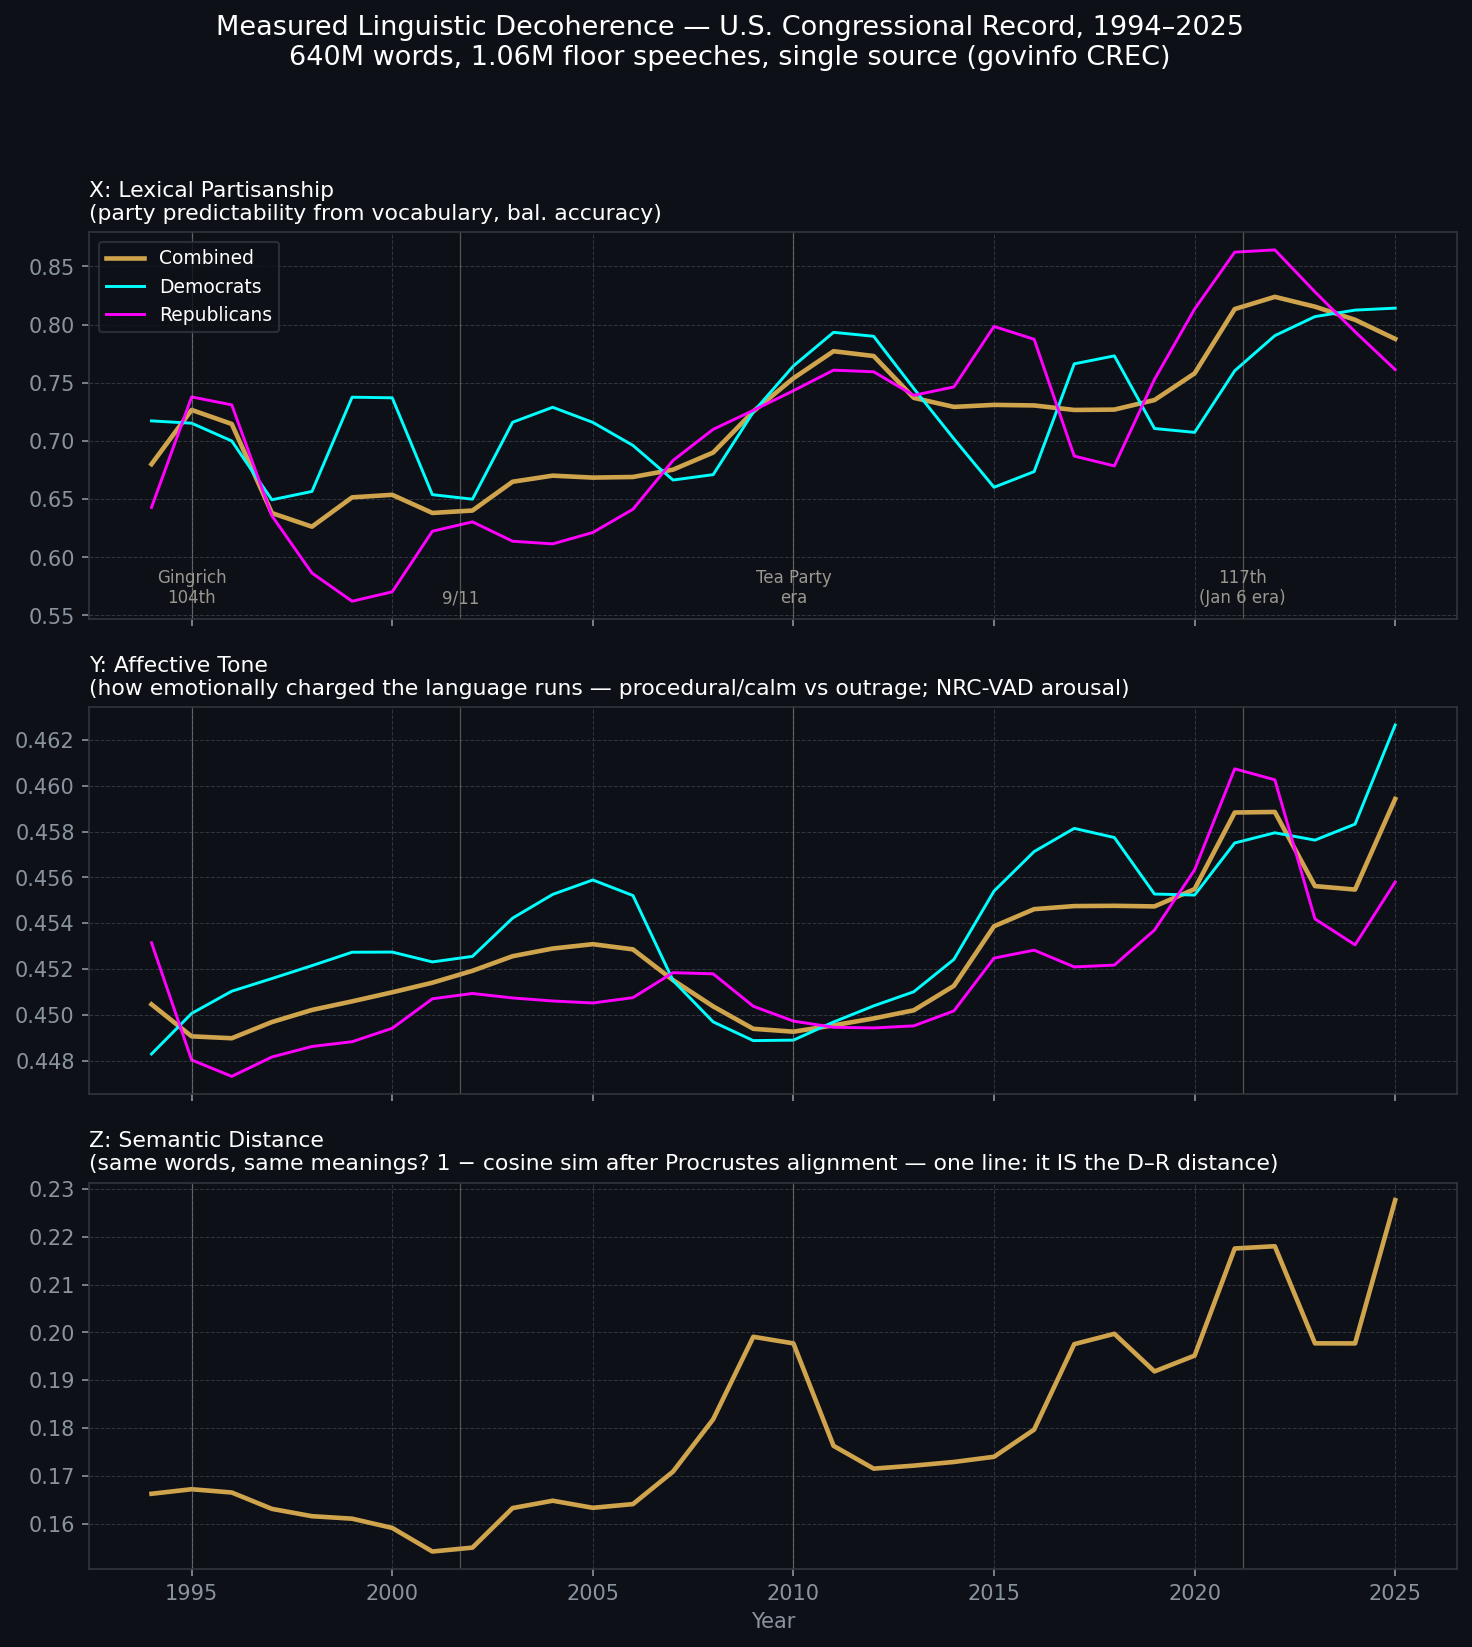
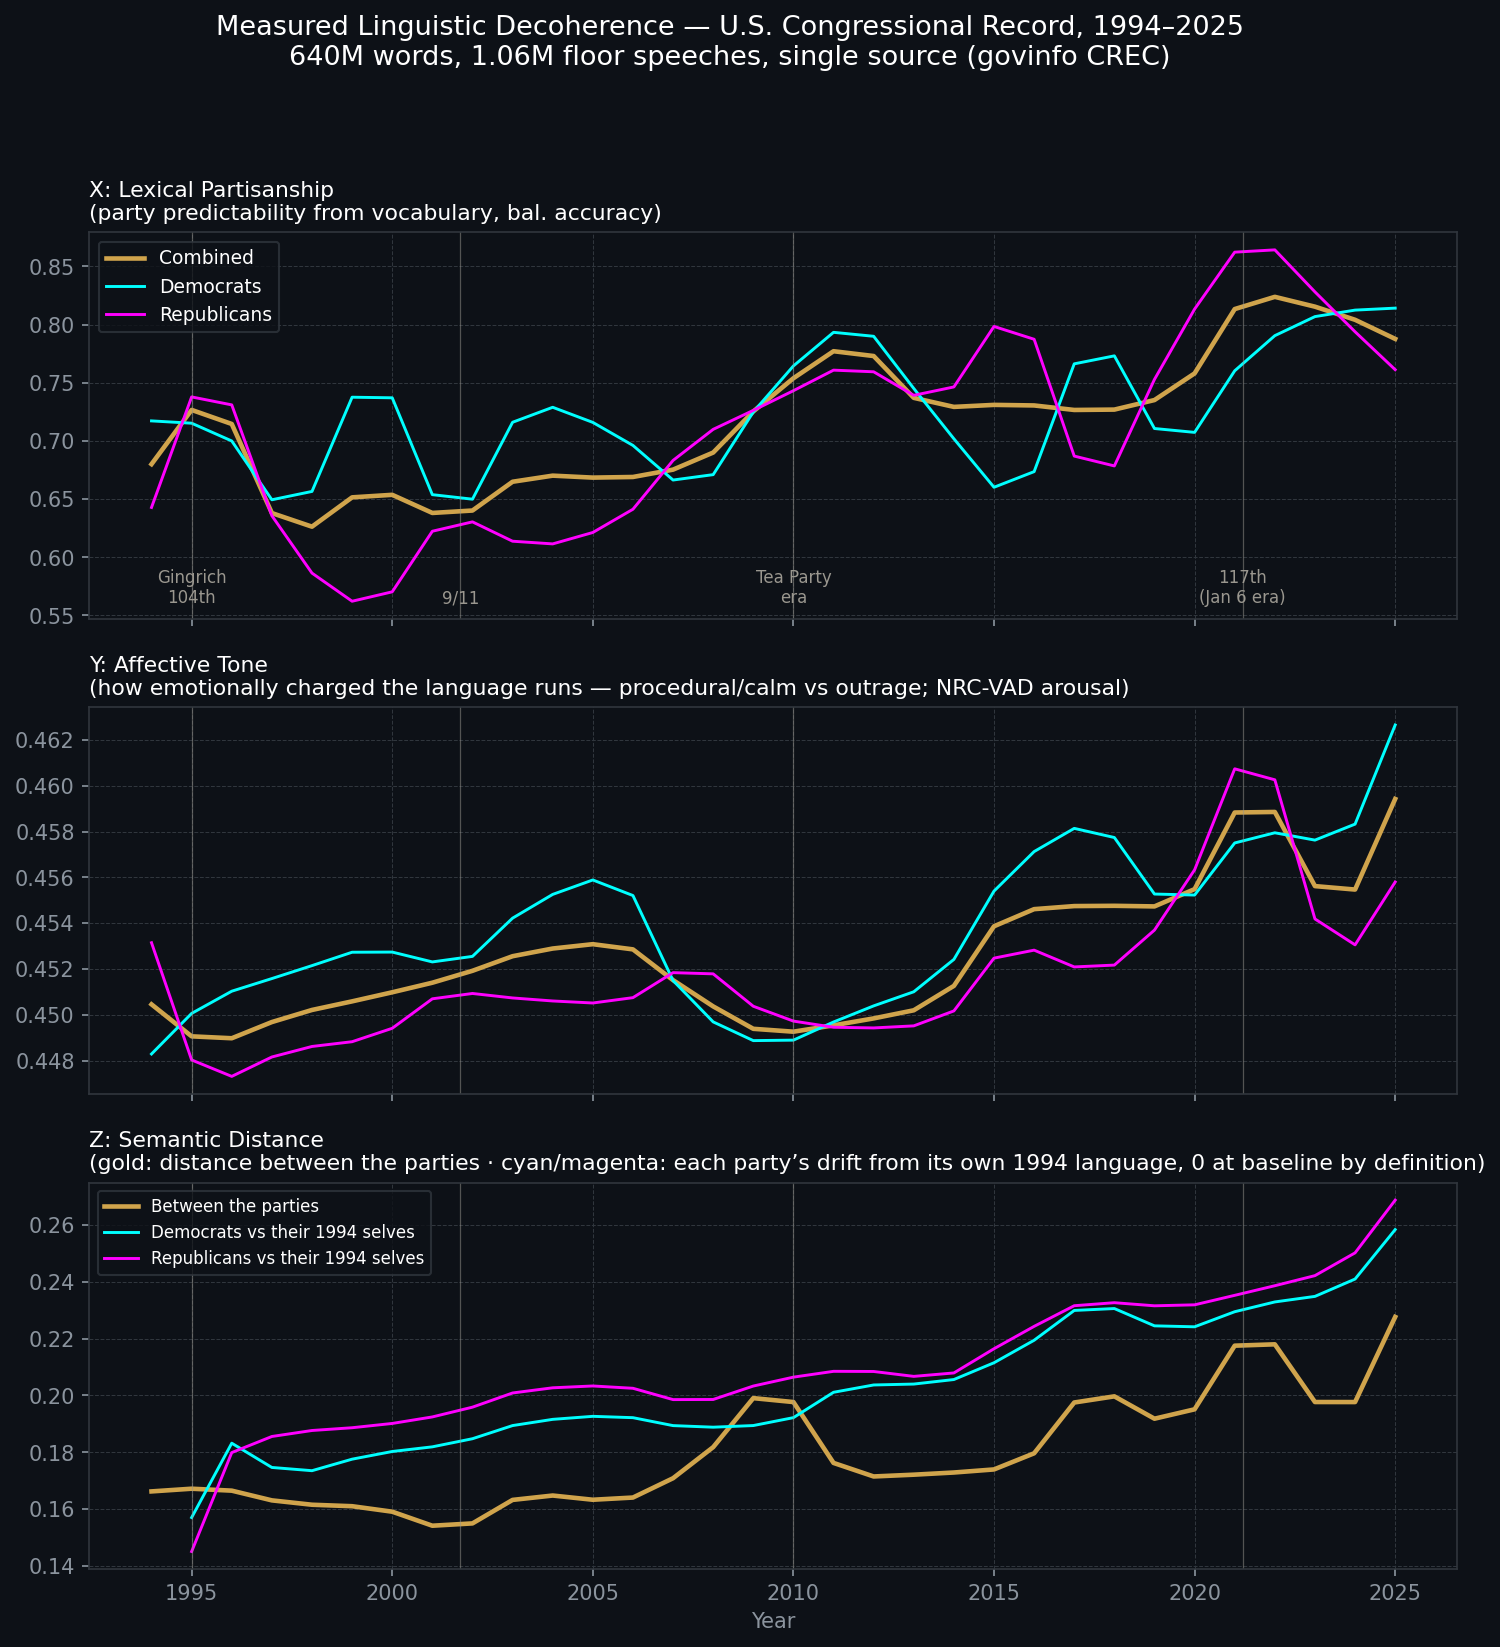
Z panel: per-party drift-from-1994 lines; bump chart to v3

diff --git a/decoherence-z-axis.html b/decoherence-z-axis.html
@@ -1,9 +1,9 @@
-<!DOCTYPE html>
+<!DOCTYPE html>
 <html lang="en">
 <head>
 <meta charset="UTF-8">
 <meta name="viewport" content="width=device-width, initial-scale=1.0">
-<title>The Z-Axis, Intuitively — Mister Consistency</title>
+<title>The Z-Axis, Intuitively â€” Mister Consistency</title>
 <meta name="description" content="An intuitive explanation of the semantic-distance axis in the Topology of Societal Decoherence: disconnected manifolds, Procrustes alignment, and cosine similarity.">
 <link rel="icon" href="favicon.svg" type="image/svg+xml">
 <link rel="preconnect" href="https://fonts.googleapis.com">
@@ -102,7 +102,7 @@
       </p>
 
       <figure>
-        <img src="assets/decoherence-measured-series.png?v=2" alt="Three line charts, 1994 to 2025: lexical partisanship, affective tone, and semantic distance measured from the Congressional Record">
+        <img src="assets/decoherence-measured-series.png?v=3" alt="Three line charts, 1994 to 2025: lexical partisanship, affective tone, and semantic distance measured from the Congressional Record">
         <figcaption>The three measured axes, 1994&ndash;2025. The Z-axis
         (semantic distance) is the bottom panel.</figcaption>
       </figure>